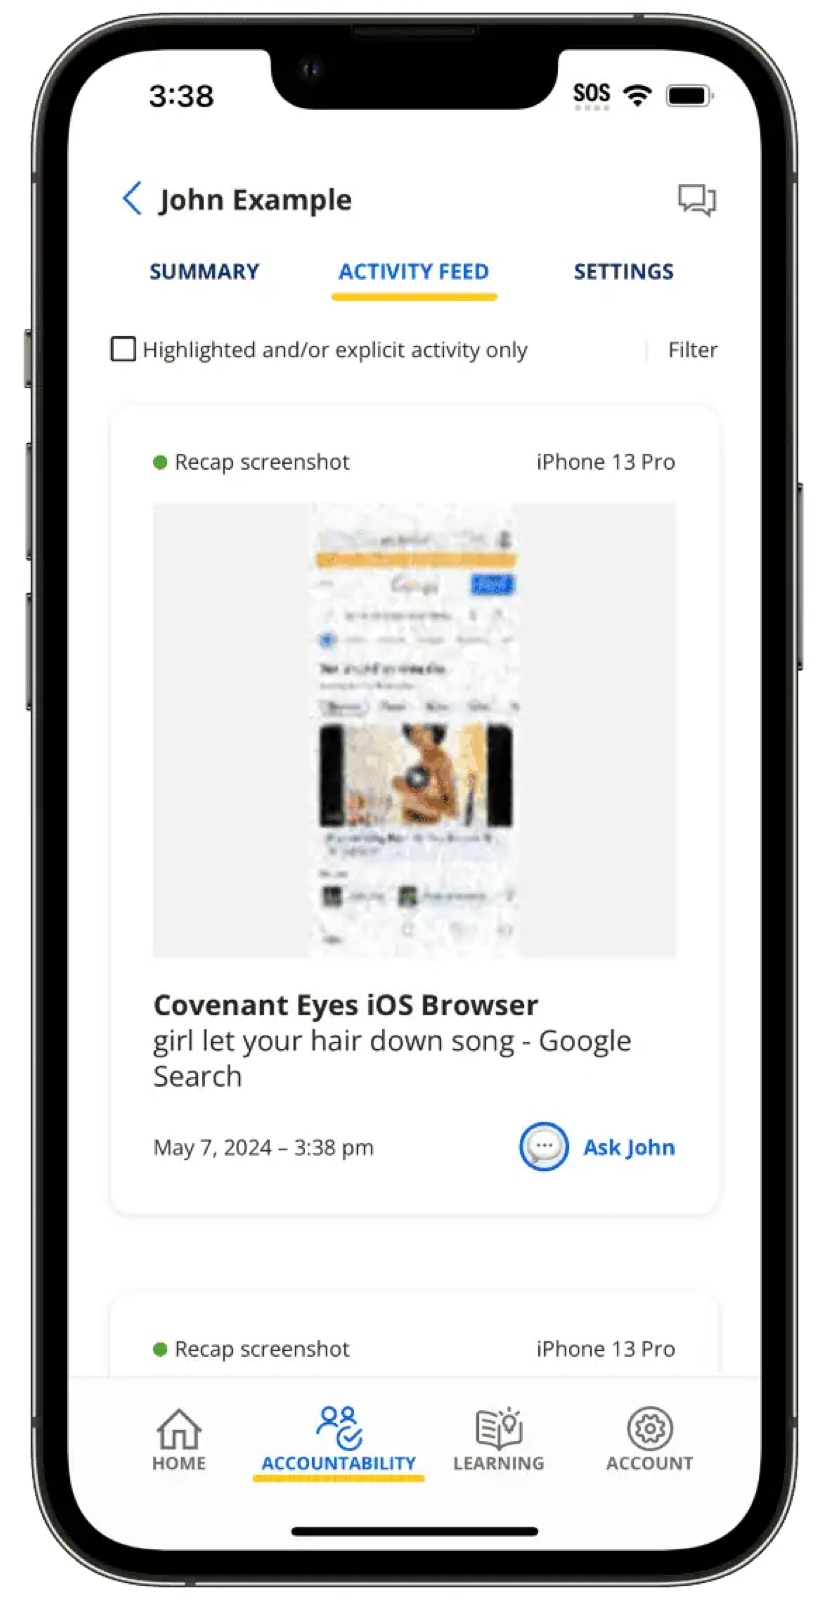
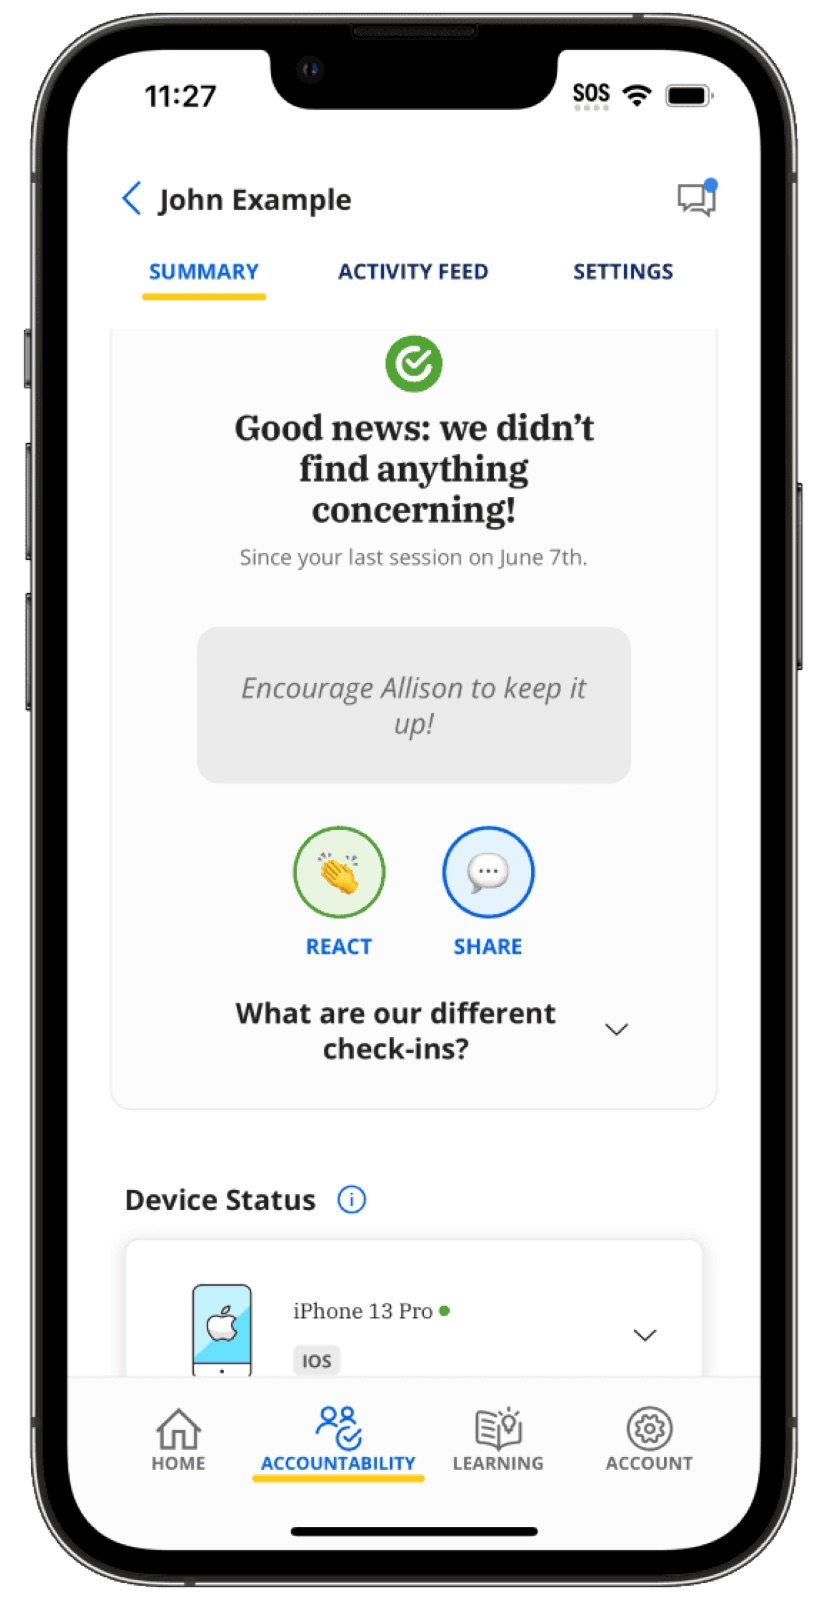
Update the intro text and the first Covenant Eyes screen
The new intro keeps its phone wording, and Victory's summary screen
replaces the activity feed, which could be aggravating to see.

diff --git a/src/ui/overlays.ts b/src/ui/overlays.ts
@@ -233,7 +233,7 @@ export function showEndCard(world: World, iconUrl: string): Promise<void> {
 export function showIntro(): Promise<void> {
   const about = getSite().about;
   // on a phone there's no "Skip the game" button to point at (START does it), and a wider screen plays better
-  const body = PHONE ? about.body.replace(/Tap "Skip the game[^.]*\./, 'Press START anytime.') : about.body;
+  const body = PHONE ? about.body.replace(/Tap [“"]Skip the game[^.]*\.[”"]?/, 'Press START anytime.') : about.body;
   const node = el(`
     <div class="ov ov-story" role="dialog" aria-label="${esc(about.title)}">
       <article class="story intro-story">
